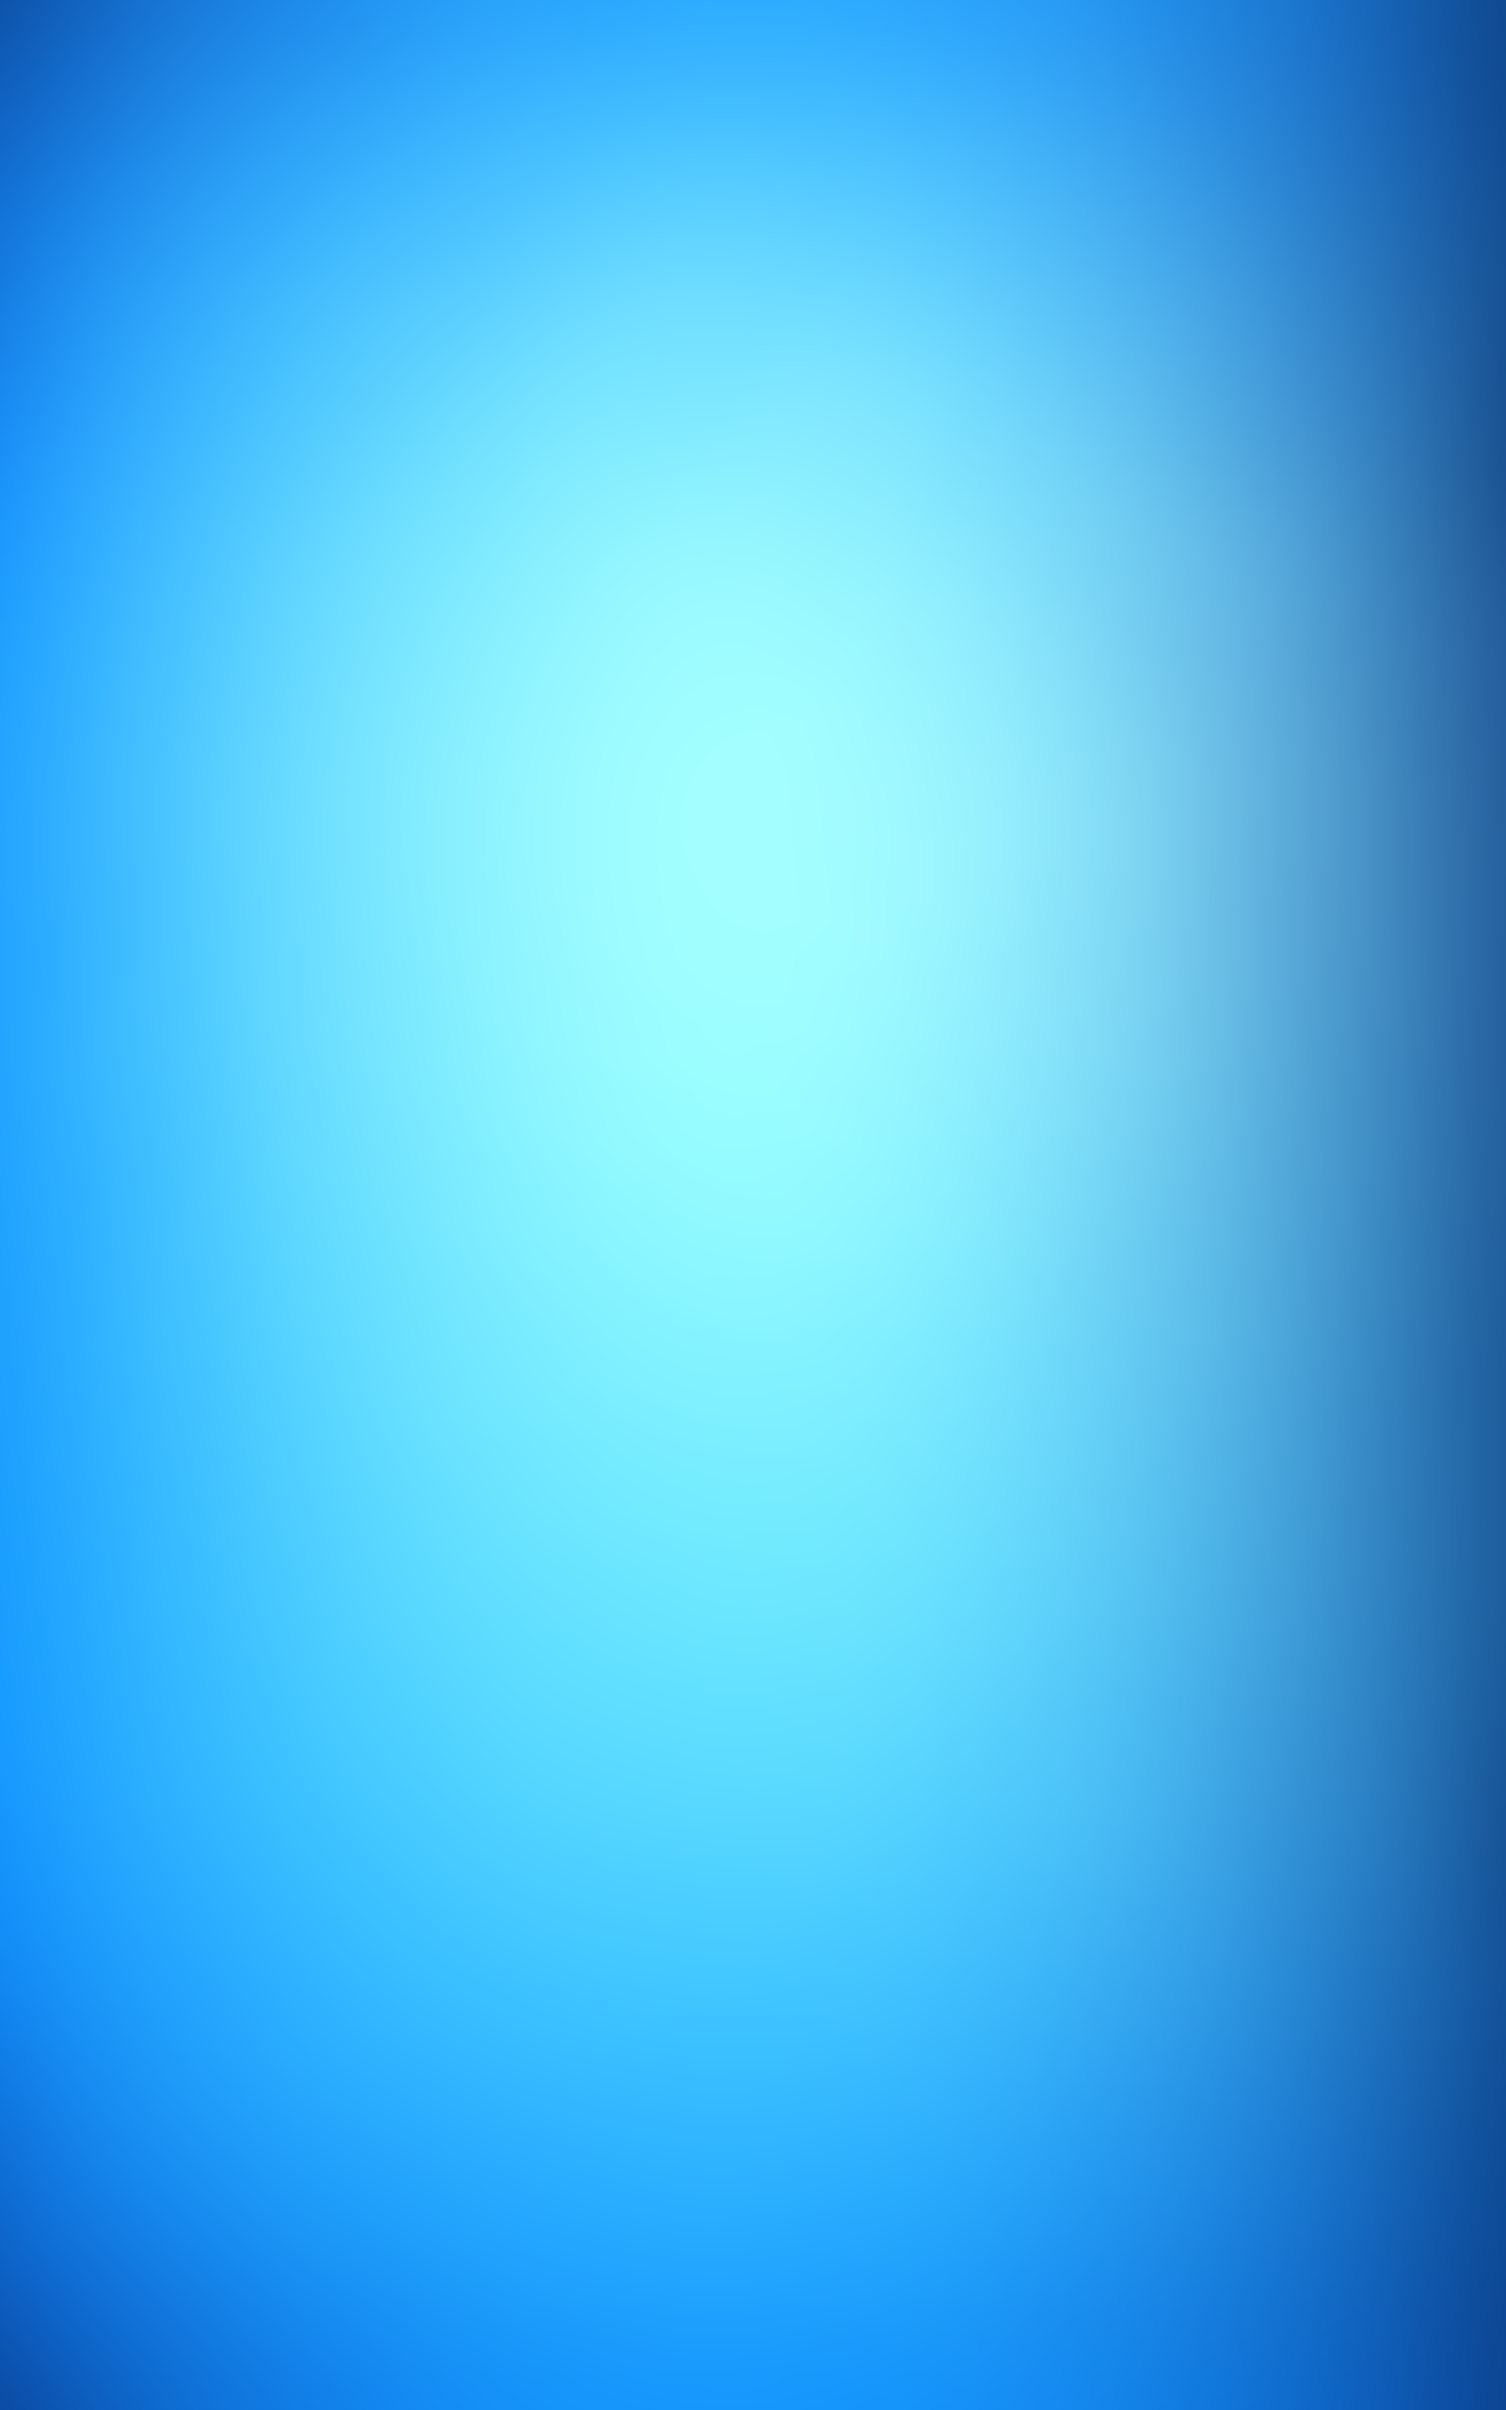
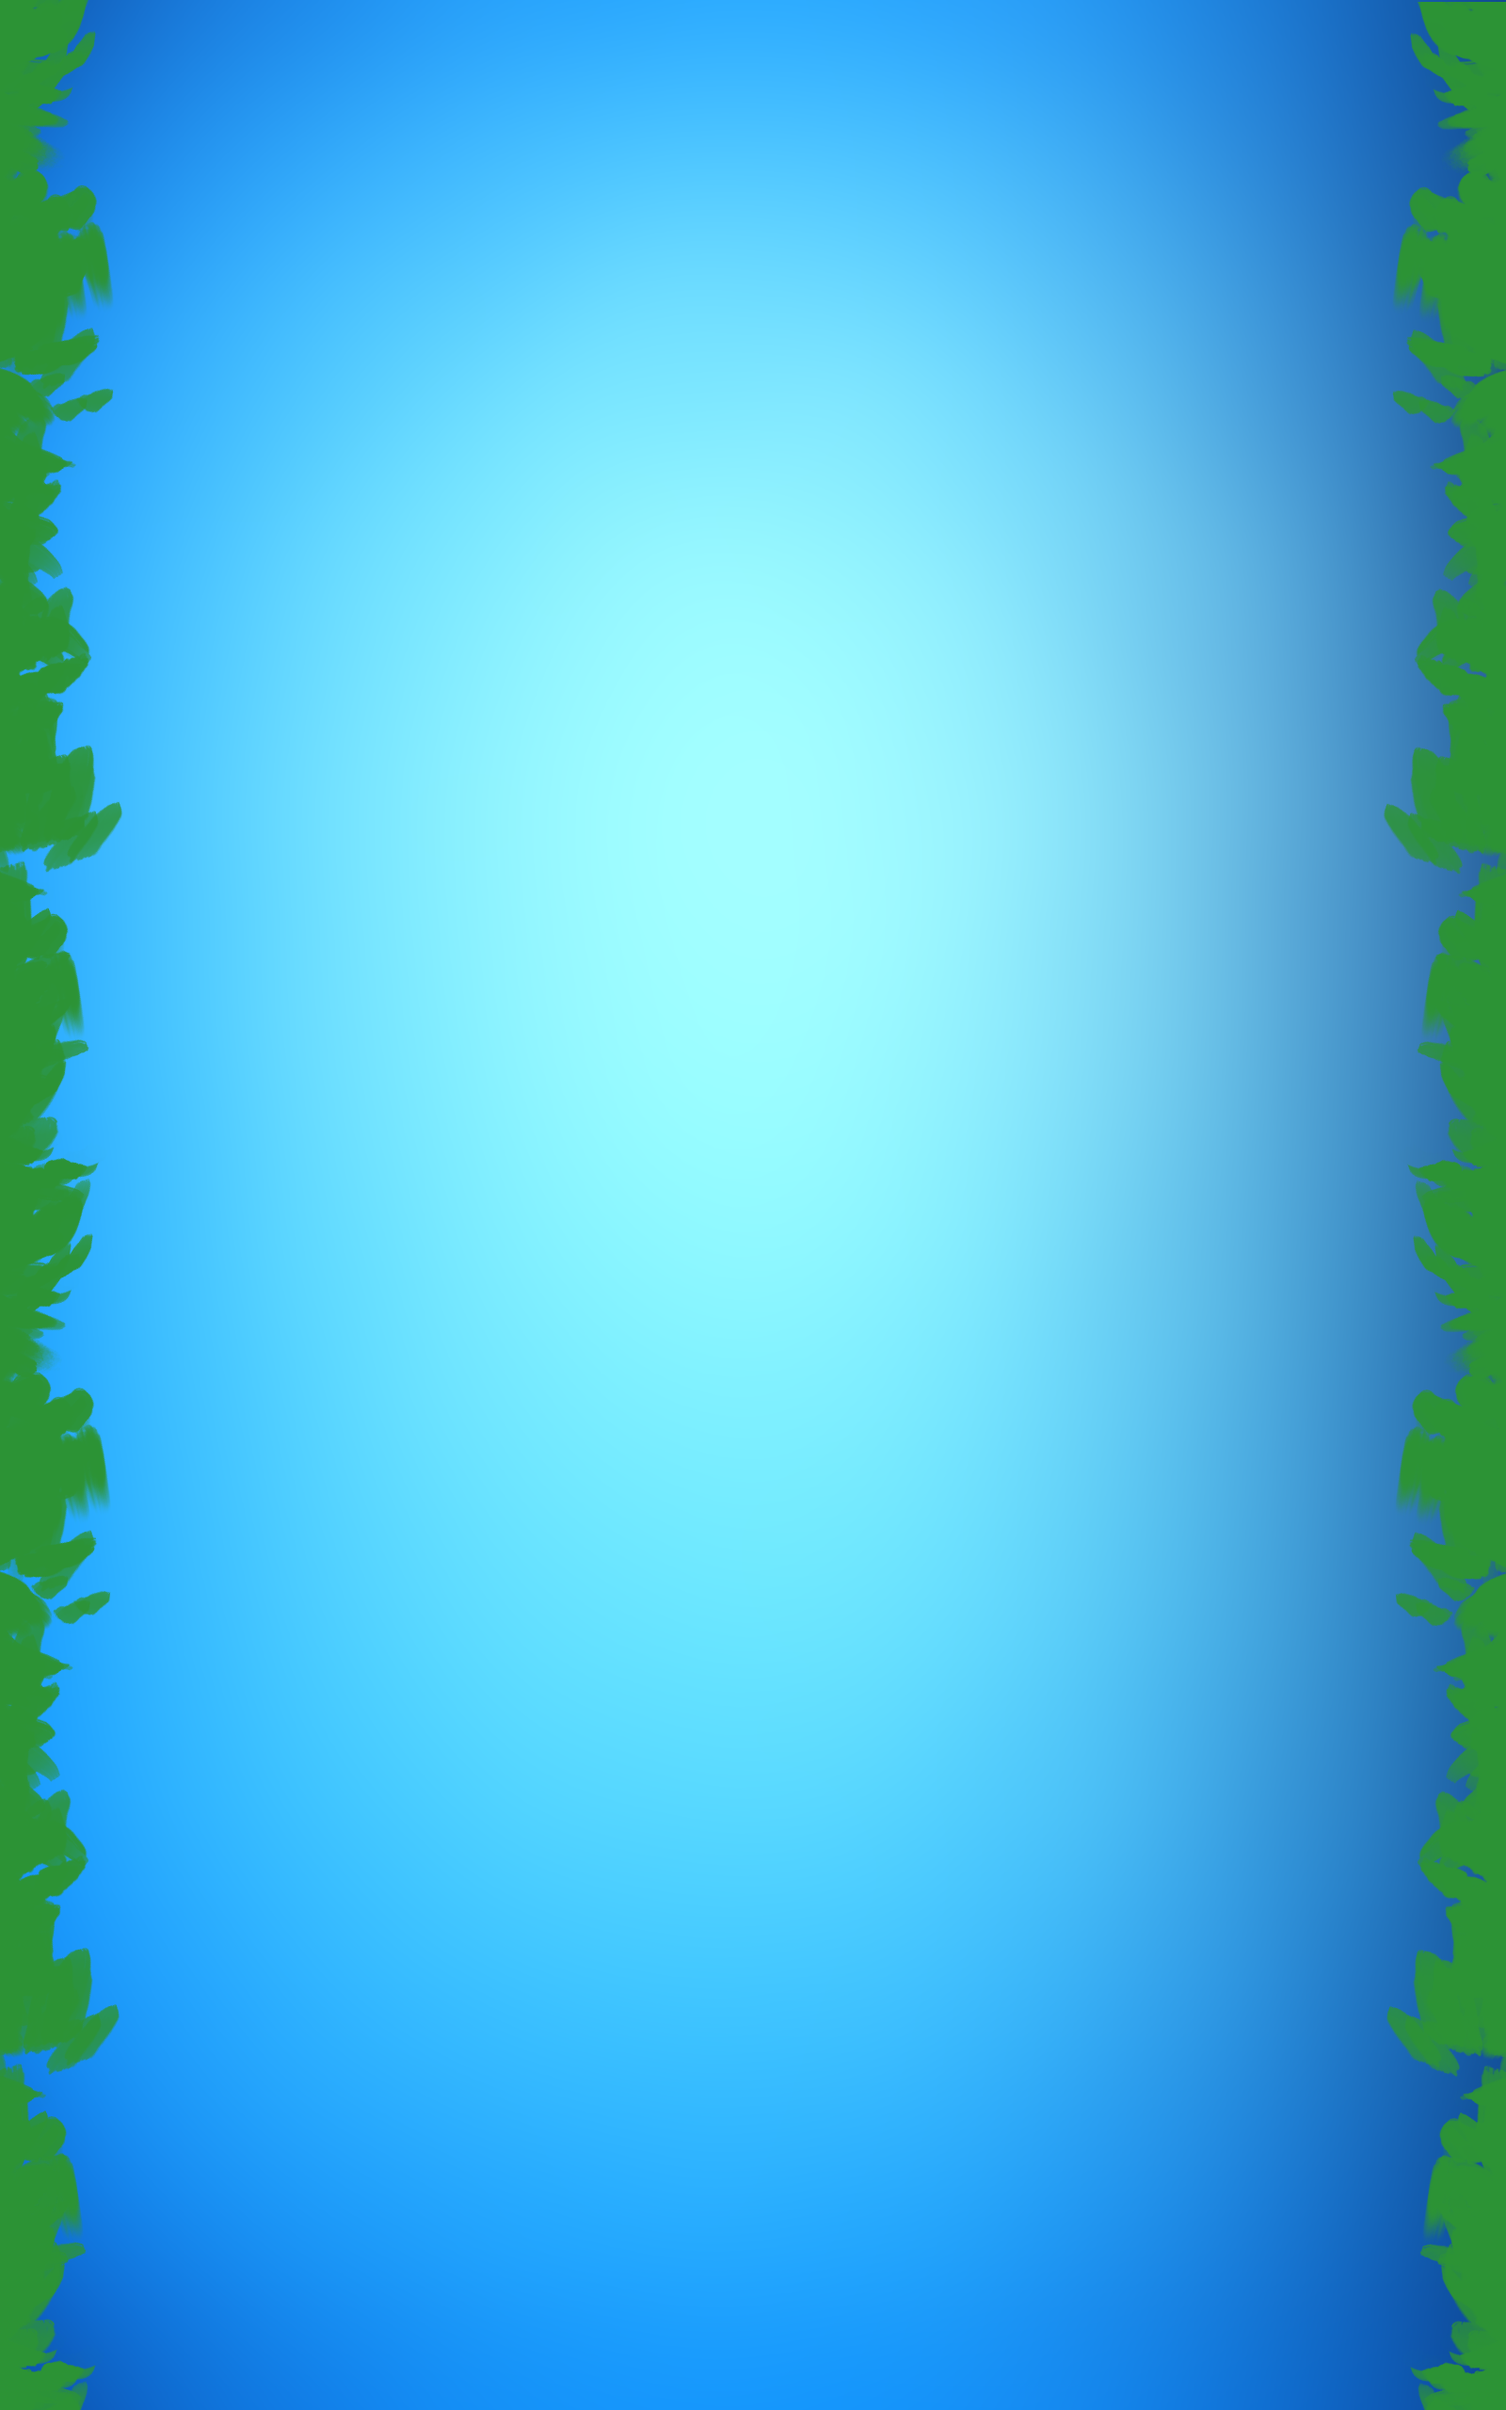
fish image minor fixes

Changed region(s): [[0.9062, 0.0, 1.0, 1.0], [0.0, 0.0, 0.0938, 1.0]]

diff --git a/UbiGame_Blank/Source/Game/GameBoard.cpp b/UbiGame_Blank/Source/Game/GameBoard.cpp
@@ -9,7 +9,10 @@ GameBoard::GameBoard()
 {
 	CreateBackground();
 	CreatePlayer();
-	//CreateGround();
+	CreateGround(sf::Vector2f(300.0f, 602.0f), sf::Vector2f(600.0f, 4.0f));
+	CreateGround(sf::Vector2f(-2.f, 300.f), sf::Vector2f(4.0f, 600.0f));
+	CreateGround(sf::Vector2f(602.f, 350.f), sf::Vector2f(4.0f, 600.0f));
+
 	std::srand(std::time(NULL));
 }
 
@@ -23,18 +26,18 @@ GameBoard::~GameBoard()
 void GameBoard::Update()
 {	
 	const sf::Time Time = sf::seconds(2.0f);
+	if (m_player->isAlive()) {
+		if (Timer.getElapsedTime() > Time) {
+			// Bounds for raindrops for left and right most
+			float min_x = 32.0f;
+			float max_x = 460.0f;
 
-	if (Timer.getElapsedTime() > Time) {
+			float x = (float)(rand() % (int)((max_x + 1) - min_x)) + min_x;
+			float y = 0;
 
-		// Bounds for raindrops for left and right most
-		float min_x = 32.0f;
-		float max_x = 460.0f;
-
-		float x = (float)(rand() % (int)((max_x + 1) - min_x)) + min_x;
-		float y = 0;
-
-		CreateRaindrop(sf::Vector2f(x, y));
-		Timer.restart();
+			CreateRaindrop(sf::Vector2f(x, y));
+			Timer.restart();
+		}
 	}
 }
 
@@ -42,19 +45,17 @@ void GameBoard::CreatePlayer()
 {
 	m_player = new GameEngine::PlayerEntity(); 
 	GameEngine::GameEngineMain::GetInstance()->AddEntity(m_player);
-	m_player->SetPos(sf::Vector2f(250.0f, 250.0f));
-	m_player->SetSize(sf::Vector2f(25.0f, 25.0f));
 
 }
 
-void GameBoard::CreateGround()
+void GameBoard::CreateGround(sf::Vector2f pos, sf::Vector2f size)
 {
-	m_ground = new GameEngine::Entity(); 
-	GameEngine::GameEngineMain::GetInstance()->AddEntity(m_ground); 
-	m_ground->SetPos(sf::Vector2f(250.0f, 480.0f));
-	m_ground->SetSize(sf::Vector2f(500.0f, 10.0f)); 
-	GameEngine::RenderComponent* render = m_ground->AddComponent<GameEngine::RenderComponent>(); 
-	GameEngine::CollidableComponent* collision = m_ground->AddComponent<GameEngine::CollidablePhysicsComponent>(); 
+	GameEngine::Entity* ground = new GameEngine::Entity(); 
+	GameEngine::GameEngineMain::GetInstance()->AddEntity(ground);
+	ground->SetPos(pos);
+	ground->SetSize(size);
+	GameEngine::RenderComponent* render = ground->AddComponent<GameEngine::RenderComponent>(); 
+	GameEngine::CollidableComponent* collision = ground->AddComponent<GameEngine::CollidablePhysicsComponent>(); 
 }
 
 void GameBoard::CreateBackground()
@@ -74,7 +75,6 @@ void GameBoard::CreateBackground()
 
 void GameBoard::CreateRaindrop(sf::Vector2<float> startPos)
 {
-	printf("a"); 
 	GameEngine::Entity* m_raindrop = new GameEngine::Entity();
 	GameEngine::GameEngineMain::GetInstance()->AddEntity(m_raindrop);
 	m_raindrop->SetPos(startPos);
@@ -89,7 +89,7 @@ void GameBoard::CreateRaindrop(sf::Vector2<float> startPos)
 	// Animate raindrop falling!
 	GameEngine::RaindropComponent* particle = static_cast<GameEngine::RaindropComponent*>(m_raindrop->AddComponent<GameEngine::RaindropComponent>());
 	GameEngine::CollidablePhysicsComponent* physics = m_raindrop->AddComponent<GameEngine::CollidablePhysicsComponent>();
-// Set the lifetime
-particle->SetLifeTime(9);
+	// Set the lifetime
+	particle->SetLifeTime(20);
 
 }

diff --git a/UbiGame_Blank/Source/GameEngine/EntitySystem/Entities/PlayerEntity.cpp b/UbiGame_Blank/Source/GameEngine/EntitySystem/Entities/PlayerEntity.cpp
@@ -12,9 +12,13 @@ using namespace GameEngine;
 
 PlayerEntity::PlayerEntity()
 {
-	m_render = AddComponent<GameEngine::RenderComponent>();
+	m_render = AddComponent<GameEngine::SpriteRenderComponent>();
 	m_movement = AddComponent<GameEngine::PlayerMovementComponent>();
 	m_physicsCollider = AddComponent<GameEngine::CollidablePhysicsComponent>();
+	m_render->SetFillColor(sf::Color::Transparent);
+	m_render->SetTexture(GameEngine::eTexture::Fish);
+	SetPos(sf::Vector2f(250.0f, 250.0f));
+	SetSize(sf::Vector2f(50.0f, 150.0f));
 	life = 3; 
 	speed = 80;
 }
@@ -28,7 +32,7 @@ PlayerEntity::~PlayerEntity()
 void PlayerEntity::OnCollide()
 {
 	removeLife(); 
-	printf("LIFE"); 
+	printf("Lost a life"); 
 	sf::Vector2f velocity = GetVel();
 	float velocityLossX = 0.0f;
 	float velocityLossY = 0.0f; 
@@ -52,10 +56,14 @@ int PlayerEntity::removeLife() {
 		printf("You hit too many rocks"); 
 		m_movement->setSpeed(0); 
 		SetVel(sf::Vector2f(0, 0)); 
-		// GAME OVER IMAGE
+		CreateGameOver(); 
 	}
 	life--;
 	return life; 
+}
+
+bool PlayerEntity::isAlive() {
+	return !(life <= -1); 
 }
 
 void PlayerEntity::Update()
@@ -66,4 +74,20 @@ void PlayerEntity::Update()
 	}
 	Entity::Update();
 	float dt = GameEngineMain::GetTimeDelta();
+}
+
+
+void PlayerEntity::CreateGameOver()
+{
+	GameEngine::Entity* gameOverEntity = new GameEngine::Entity();
+	GameEngine::GameEngineMain::GetInstance()->AddEntity(gameOverEntity);
+
+	gameOverEntity->SetPos(sf::Vector2f(300.f, 300.f));
+	gameOverEntity->SetSize(sf::Vector2f(600.f, 600.f));
+
+	GameEngine::SpriteRenderComponent* render = (gameOverEntity->AddComponent<GameEngine::SpriteRenderComponent>());
+	render->SetFillColor(sf::Color::Transparent);
+
+	render->SetTexture(GameEngine::eTexture::GameOver);
+
 }

diff --git a/UbiGame_Blank/Source/GameEngine/EntitySystem/Components/PlayerMovementComponent.cpp b/UbiGame_Blank/Source/GameEngine/EntitySystem/Components/PlayerMovementComponent.cpp
@@ -11,7 +11,7 @@ using namespace GameEngine;
 
 PlayerMovementComponent::PlayerMovementComponent()
 {
-	speed = 30; 
+	speed = 50; 
 }
 
 
@@ -28,18 +28,26 @@ void PlayerMovementComponent::Update()
 	sf::Vector2f velocity(0.0f, 0.0f);
 	sf::Vector2f displacement(0.0f, 0.0f);
 	if (sf::Keyboard::isKeyPressed(sf::Keyboard::Left)) {
-		velocity.x -= speed * dt;
+		if (velocity.x - speed * dt > -maxSpeed) {
+			velocity.x -= speed * dt;
+		}
 	}
 	if (sf::Keyboard::isKeyPressed(sf::Keyboard::Right)) {
-		velocity.x += speed * dt;
+		if (velocity.x + speed * dt < maxSpeed) {
+			velocity.x += speed * dt;
+		}
 	}
 	if (sf::Keyboard::isKeyPressed(sf::Keyboard::Down)) {
-		velocity.y += speed * dt;
-		displacement.y += speed * dt; 
+		if (velocity.y + speed * dt < maxSpeed) {
+			velocity.y += speed * dt;
+			displacement.y += speed * dt;
+		}
 	}
 	if (sf::Keyboard::isKeyPressed(sf::Keyboard::Up)) {
-		velocity.y -= speed * dt;
-		displacement.y -= speed * dt; 
+		if (velocity.y - speed * dt > -maxSpeed) {
+			velocity.y -= speed * dt;
+			displacement.y -= speed * dt;
+		}
 	}
 	GetEntity()->SetVel(GetEntity()->GetVel() + sf::Vector2f(velocity.x, velocity.y));
 	sf::Vector2f position = GetEntity()->GetPos(); 

diff --git a/UbiGame_Blank/Source/GameEngine/EntitySystem/Entities/PlayerEntity.h b/UbiGame_Blank/Source/GameEngine/EntitySystem/Entities/PlayerEntity.h
@@ -3,7 +3,7 @@
 #include "GameEngine/EntitySystem/Entity.h"
 #include "GameEngine/EntitySystem/Components/PlayerMovementComponent.h"
 #include "GameEngine/EntitySystem/Components/CollidablePhysicsComponent.h"
-#include "GameEngine/EntitySystem/Components/RenderComponent.h"
+#include "GameEngine/EntitySystem/Components/SpriteRenderComponent.h"
 
 #include <SFML/System/Vector2.hpp>
 namespace GameEngine {
@@ -19,15 +19,13 @@ namespace GameEngine {
 
 
 		int removeLife(); 
+		bool isAlive(); 
 	private:
 
-		//GameEngine::RenderComponent* m_render = AddComponent<GameEngine::RenderComponent>();
-		//GameEngine::PlayerMovementComponent* m_movement = AddComponent<GameEngine::PlayerMovementComponent>();
-		//GameEngine::CollidableComponent* m_physicsCollider = AddComponent<GameEngine::CollidablePhysicsComponent>();
-
-		GameEngine::RenderComponent* m_render; 
+		GameEngine::SpriteRenderComponent * m_render; 
 		GameEngine::PlayerMovementComponent* m_movement;
 		GameEngine::CollidableComponent* m_physicsCollider;
+		void CreateGameOver(); 
 		int speed; 
 		int life; 
 

diff --git a/UbiGame_Blank/Source/Game/GameBoard.h b/UbiGame_Blank/Source/Game/GameBoard.h
@@ -1,5 +1,5 @@
 #pragma once
-#include "GameEngine/EntitySystem/Entity.h"
+#include "GameEngine/EntitySystem/Entities/PlayerEntity.h"
 
 #include <SFML/System/Vector2.hpp>
 #include <SFML/System.hpp>
@@ -33,13 +33,13 @@ namespace Game
 
 	private: 
 		void CreatePlayer();
-		void CreateGround();
-		GameEngine::Entity* m_player;
-		GameEngine::Entity* m_ground;
+		void CreateGround(sf::Vector2f pos, sf::Vector2f size); 
+		GameEngine::PlayerEntity* m_player;
 		void CreateRaindrop(sf::Vector2<float> startPos);
 		void CreateBackground();
 		GameEngine::Entity* raindrop;
 		sf::Clock Timer;
+
 	};
 }
 

diff --git a/UbiGame_Blank/Source/GameEngine/Util/TextureManager.h b/UbiGame_Blank/Source/GameEngine/Util/TextureManager.h
@@ -14,6 +14,8 @@ namespace GameEngine
 
 			Rain,
 			Background,
+			Fish,
+			GameOver, 
 			Count,
 		};
 	}	
@@ -25,6 +27,10 @@ namespace GameEngine
 			return "rock1.png";
 		case eTexture::Background:
 			return "river.png";
+		case eTexture::Fish:
+			return "fish.png";
+		case eTexture::GameOver:
+			return "gameover.png";
 		default:
 			return "UnknownTexType";
 		}
